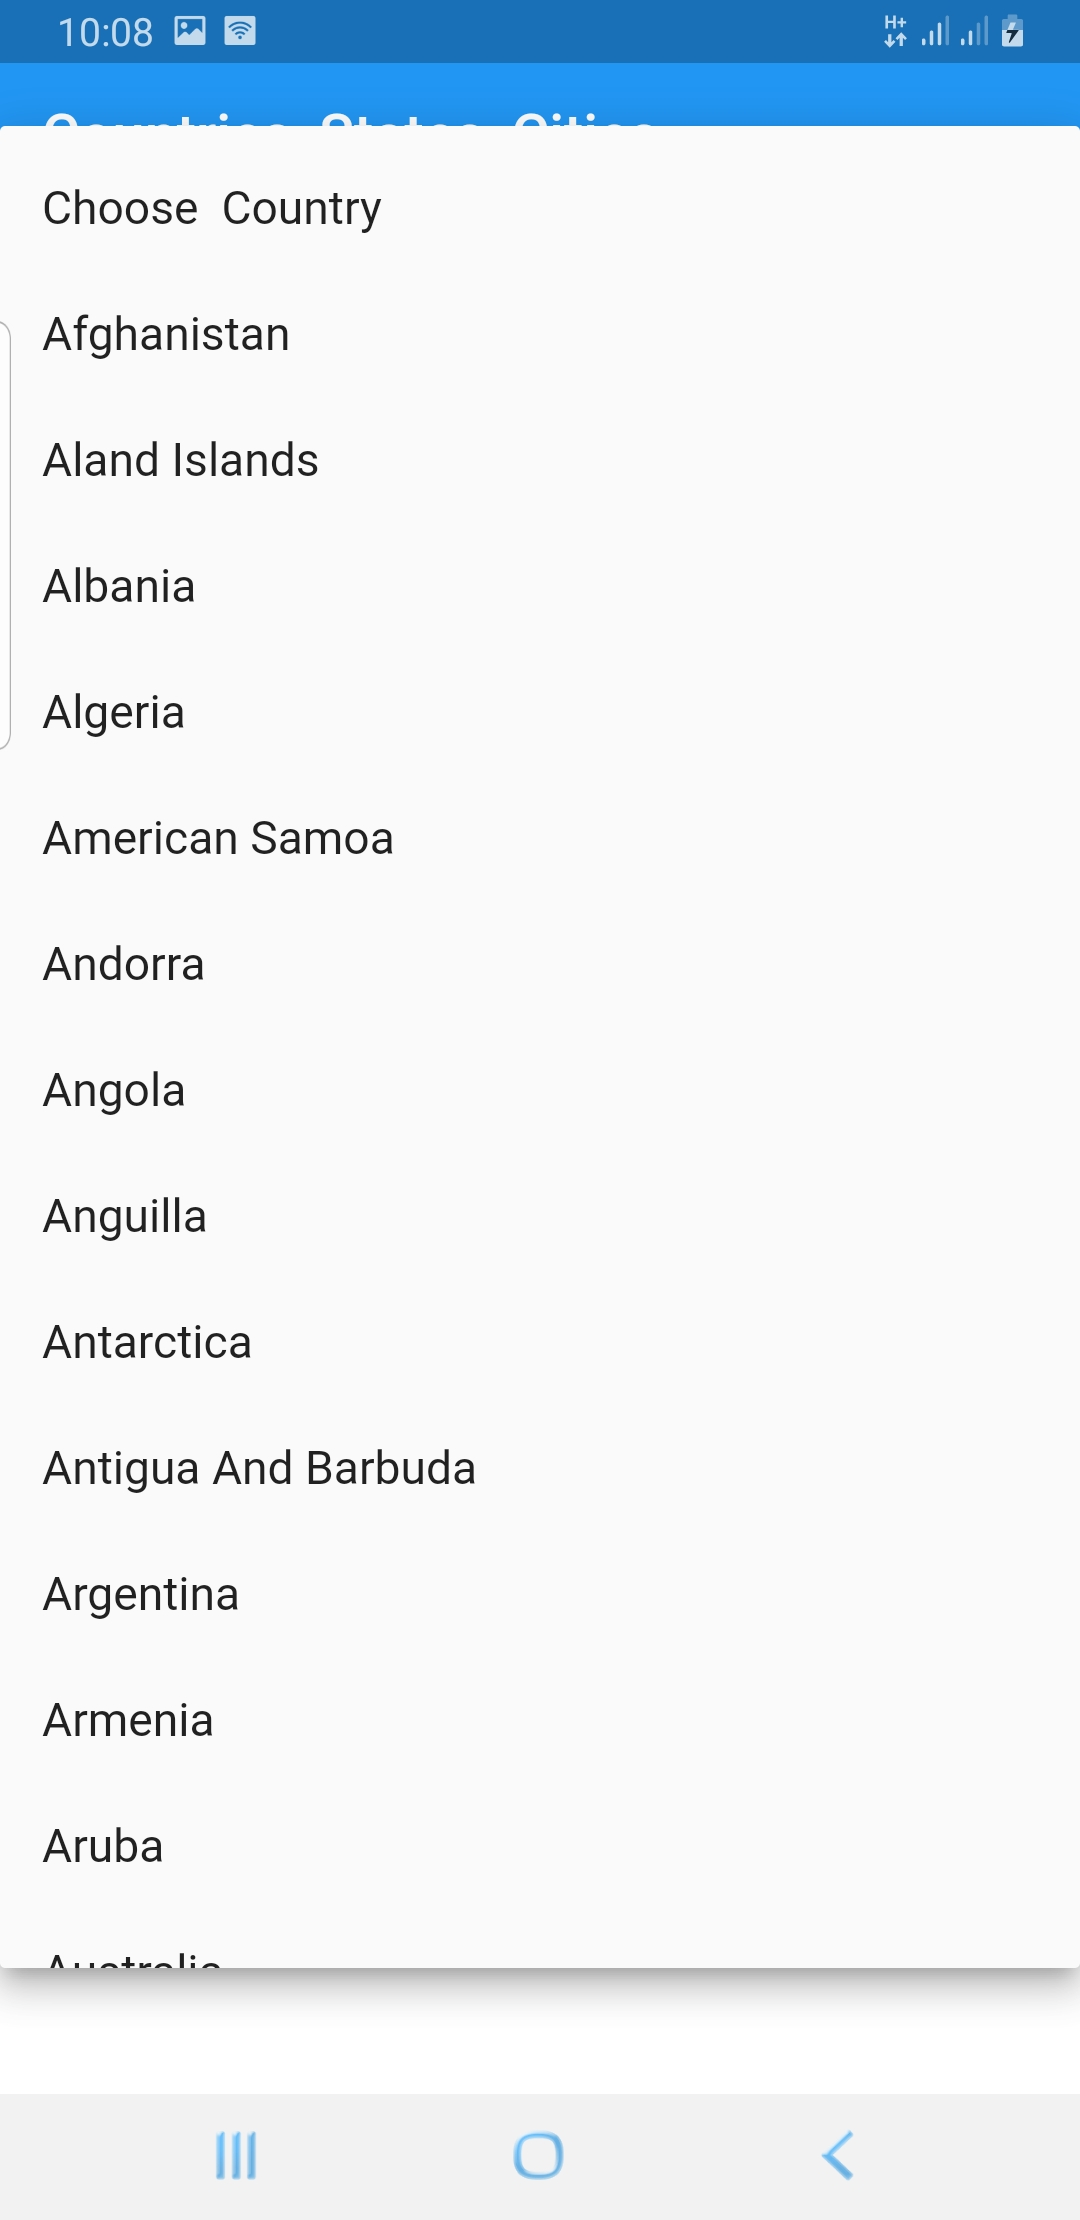
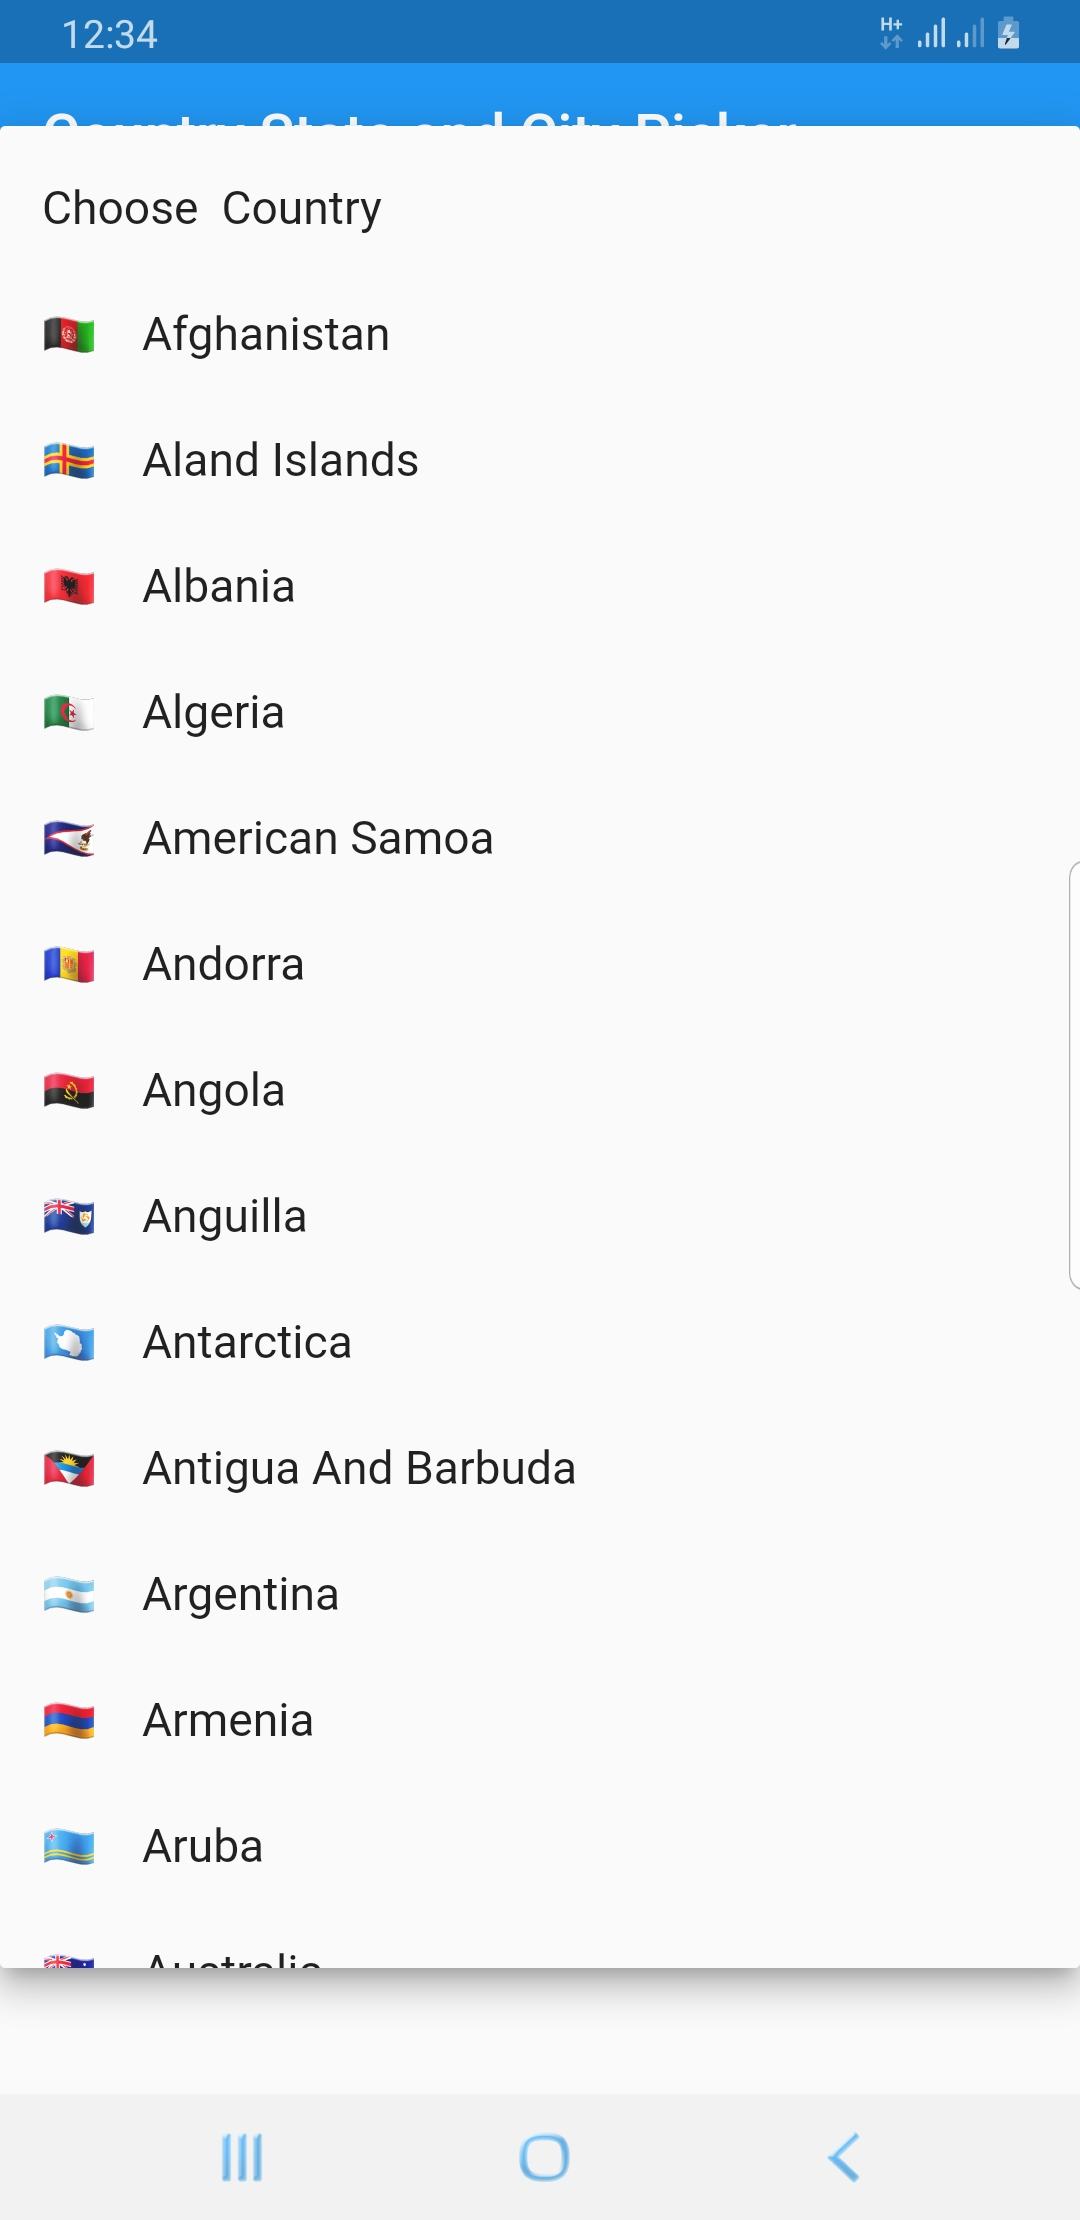
Screenshot added

diff --git a/lib/country_state_city_picker.dart b/lib/country_state_city_picker.dart
@@ -70,7 +70,7 @@ class _SelectStateState extends State<SelectState> {
     var response = await getResponse();
     var takestate = response
         .map((map) => StatusModel.StatusModel.fromJson(map))
-        .where((item) => item.name == _selectedCountry)
+        .where((item) => item.emoji + "    " + item.name == _selectedCountry)
         .map((item) => item.state)
         .toList();
     var states = takestate as List;
@@ -92,7 +92,7 @@ class _SelectStateState extends State<SelectState> {
     var response = await getResponse();
     var takestate = response
         .map((map) => StatusModel.StatusModel.fromJson(map))
-        .where((item) => item.name == _selectedCountry)
+        .where((item) => item.emoji + "    " + item.name == _selectedCountry)
         .map((item) => item.state)
         .toList();
     var states = takestate as List;

diff --git a/CHANGELOG.md b/CHANGELOG.md
@@ -1,6 +1,6 @@
 ## [1.1.0] - 2020/12/05.
 ## [1.2.0] - 2020/12/05.
-## [1.2.3] - 2020/12/07.
+## [1.2.4] - 2020/12/07.
 
 * initial release.
-* 1.2.3: Inclusion of Rivers State in Nigeria and Display Images, Flags Added to Country
+* 1.2.4: Inclusion of Rivers State in Nigeria and Display Images, Flags Added to Country
